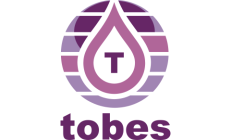
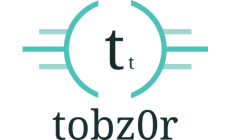
v0.1

diff --git a/Website-dockerfiles/toby-site/website-code/css/main.css b/Website-dockerfiles/toby-site/website-code/css/main.css
@@ -1,3 +1,26 @@
-body {
-    background-color: white;
+#fry {
+    opacity: 0.1;
+}
+
+a {
+    color: #32a89e;
+}
+
+a:hover {
+    text-decoration: none;
+    color:#327fa8;
+}
+
+#novideo {
+    display: none;
+}
+
+@media screen and (max-width:800px){
+    #videos {
+        display: none;
+    }
+
+    #novideo {
+        display: block;
+    }
 }

diff --git a/Website-dockerfiles/toby-site/website-code/inc/nav.php b/Website-dockerfiles/toby-site/website-code/inc/nav.php
@@ -1,26 +1,22 @@
-<nav class="navbar navbar-expand-lg navbar-dark" style="background-color: #2F2143;">
-  <a class="navbar-brand" href="/">
-    <!-- Page logo and name -->
-    <img src="/img/tobes.png" width="100" height="100" alt="tobes logo"> tobes
-  </a>
-  <button class="navbar-toggler" type="button" data-toggle="collapse" data-target="#navbarNav" aria-controls="navbarNav" aria-expanded="false" aria-label="Toggle navigation">
-    <span class="navbar-toggler-icon"></span>
-  </button>
-  <div class="collapse navbar-collapse" id="navbarNav">
-    <ul class="navbar-nav">
-    <li class="nav-item">
-        <a class="nav-link" href="/">home <span class="sr-only">(current)</span></a>
-      </li>
-      <li class="nav-item dropdown">
-        <a class="nav-link dropdown-toggle" href="#" id="navbarDropdown" role="button" data-toggle="dropdown" aria-haspopup="true" aria-expanded="false">
-          menu
-        </a>
-        <div class="dropdown-menu" aria-labelledby="navbarDropdown">
-          <a class="dropdown-item" href="../pgs/guitar.php">Guitar</a>
-          <div class="dropdown-divider"></div>
-          <a class="dropdown-item" href="../pgs/about.php">About</a>
-        </div>
-      </li>
-    </ul>
-  </div>
-</nav>
+
+<div class="container">
+  <nav class="navbar navbar-expand-lg navbar-light bg-light">
+    <a class="navbar-brand" href="/"><img src="/img/tobes.png" height="100" alt="tobes logo"></a>
+    <button class="navbar-toggler" type="button" data-toggle="collapse" data-target="#navbarNav" aria-controls="navbarNav" aria-expanded="false" aria-label="Toggle navigation">
+      <span class="navbar-toggler-icon"></span>
+    </button>
+    <div class="collapse navbar-collapse" id="navbarNav">
+      <ul class="navbar-nav">
+        <li class="nav-item">
+          <a class="nav-link" href="../pgs/about.php">about</a>
+        </li>
+        <li class="nav-item">
+          <a class="nav-link" href="../pgs/guitar.php">guitar</a>
+        </li>
+        <li class="nav-item">
+          <a class="nav-link" href="../pgs/sillies.php">sillies</a>
+        </li>
+      </ul>
+    </div>
+  </nav>
+</div>

diff --git a/Website-dockerfiles/toby-site/website-code/inc/footer.php b/Website-dockerfiles/toby-site/website-code/inc/footer.php
@@ -1,10 +1,17 @@
-    <script src="https://maxcdn.bootstrapcdn.com/bootstrap/4.0.0-beta/js/bootstrap.min.js" integrity="sha384-h0AbiXch4ZDo7tp9hKZ4TsHbi047NrKGLO3SEJAg45jXxnGIfYzk4Si90RDIqNm1" crossorigin="anonymous"></script>
-    <script src="https://code.jquery.com/jquery-3.2.1.slim.min.js" integrity="sha384-KJ3o2DKtIkvYIK3UENzmM7KCkRr/rE9/Qpg6aAZGJwFDMVNA/GpGFF93hXpG5KkN" crossorigin="anonymous"></script>
-    <script src="https://cdnjs.cloudflare.com/ajax/libs/popper.js/1.11.0/umd/popper.min.js" integrity="sha384-b/U6ypiBEHpOf/4+1nzFpr53nxSS+GLCkfwBdFNTxtclqqenISfwAzpKaMNFNmj4" crossorigin="anonymous"></script>
-        
-    <div class="panel panel-default">
-        <div class="panel-body">
-            &copy; Toby Sykes 2020
+<script src="https://code.jquery.com/jquery-3.5.1.slim.min.js" integrity="sha384-DfXdz2htPH0lsSSs5nCTpuj/zy4C+OGpamoFVy38MVBnE+IbbVYUew+OrCXaRkfj" crossorigin="anonymous"></script>
+<script src="https://cdn.jsdelivr.net/npm/popper.js@1.16.0/dist/umd/popper.min.js" integrity="sha384-Q6E9RHvbIyZFJoft+2mJbHaEWldlvI9IOYy5n3zV9zzTtmI3UksdQRVvoxMfooAo" crossorigin="anonymous"></script>
+<script src="https://stackpath.bootstrapcdn.com/bootstrap/4.5.0/js/bootstrap.min.js" integrity="sha384-OgVRvuATP1z7JjHLkuOU7Xw704+h835Lr+6QL9UvYjZE3Ipu6Tp75j7Bh/kR0JKI" crossorigin="anonymous"></script>
+
+    <div class="card text-center">
+        <div class="card-body">
+            <p class="card-text">
+            <a href="https://www.instagram.com/tobz0r_gtr" target="_blank" rel="noopener">insta</a> | 
+            <a href="https://www.linkedin.com/in/tersykes/" target="_blank" rel="noopener">linkedin</a> | 
+            <a href="https://www.youtube.com/channel/UCbykr6kdHWCE8jLjUqrw0Jw" target="_blank" rel="noopener">youtube</a>
+            </p>
+        </div>
+        <div class="card-footer text-muted">
+            &copy; toby sykes 2020
         </div>
     </div>
 </html>

diff --git a/Website-dockerfiles/toby-site/website-code/index.php b/Website-dockerfiles/toby-site/website-code/index.php
@@ -2,14 +2,27 @@
 <?php include "inc/nav.php"; ?>
 
 <body>
-    <div class="panel panel-default">
-        <div class="panel-heading">
-            <h3 class="panel-title">welcome traveller</h3>
+    <div class="container">
+        <div id="carouselExampleControls" class="carousel slide" data-ride="carousel">
+            <ol class="carousel-indicators">
+                <li data-target="#carouselExampleCaptions" data-slide-to="0" class="active"></li>
+                <li data-target="#carouselExampleCaptions" data-slide-to="1"></li>
+            </ol>
+            <div class="carousel-inner">
+                <div class="carousel-item active">
+                <img src="/img/fry.jpg" id="fry" class="d-block w-100" data-interval="1000" alt="fry">
+                    <div class="carousel-caption d-none d-md-block">
+                        <h5 class="text-dark">not sure what the purpose of this is</h5>
+                    </div>
+                </div>
+                <div class="carousel-item">
+                <img src="/img/fry_copy.jpg" id="fry" class="d-block w-100" data-interval="1000" alt="fry?">
+                    <div class="carousel-caption d-none d-md-block">
+                        <h5 class="text-dark">maybe if I look this way</h5>
+                    </div>
+                </div>
+            </div>
         </div>
-        <div class="panel-body">
-            here you will find content
-        </div>
-    </div>
 </body>
 
 <?php include "inc/footer.php"; ?>

diff --git a/Website-dockerfiles/toby-site/website-code/pgs/guitar.php b/Website-dockerfiles/toby-site/website-code/pgs/guitar.php
@@ -1,6 +1,33 @@
-<?php include "inc/header.php"; ?>
-<?php include "inc/nav.php"; ?>
+<?php include "../inc/header.php"; ?>
+<?php include "../inc/nav.php"; ?>
 
-guitar go here
+<div class="container" id="videos">
+    <div class="container">
+      <div class="card">
+        <div class="card-body">
+        <iframe width="560" height="315" src="https://www.youtube.com/embed/s8C9ybkRVTI" frameborder="0" allow="accelerometer; autoplay; encrypted-media; gyroscope; picture-in-picture" allowfullscreen></iframe>
+        </div>
+      </div>
+    </div>
 
-<?php include "inc/footer.php"; ?>
+    <div class="container">
+      <div class="card">
+        <div class="card-body">
+        <iframe width="560" height="315" src="https://www.youtube.com/embed/1RhYRM4zW4k" frameborder="0" allow="accelerometer; autoplay; encrypted-media; gyroscope; picture-in-picture" allowfullscreen></iframe>
+        </div>
+      </div>
+    </div>
+</div>
+
+<div class="container" id="novideo">
+  <div class="container">
+    <div class="card">
+      <div class="card-body">
+        <h1>:(</h1>
+        there should be some sweet videos of guitar playthroughs here, but your screen might not be wide enough - consider fixing that, or just visit my channel using the link below.
+      </div>
+    </div>
+  </div>
+</div>
+
+<?php include "../inc/footer.php"; ?>

diff --git a/Website-dockerfiles/toby-site/website-code/pgs/sillies.php b/Website-dockerfiles/toby-site/website-code/pgs/sillies.php
@@ -1,0 +1,34 @@
+<?php include "../inc/header.php"; ?>
+<?php include "../inc/nav.php"; ?>
+
+<div class="container" id="videos">
+    <div class="container">
+      <div class="card">
+        <div class="card-body">
+          <iframe width="560" height="315" src="https://www.youtube.com/embed/tkIpQPGs0fA" frameborder="0" allow="accelerometer; autoplay; encrypted-media; gyroscope; picture-in-picture" allowfullscreen></iframe>
+        </div>
+      </div>
+    </div>
+
+    <div class="container">
+      <div class="card">
+        <div class="card-body">
+          <iframe width="560" height="315" src="https://www.youtube.com/embed/oDDrmO21A-c" frameborder="0" allow="accelerometer; autoplay; encrypted-media; gyroscope; picture-in-picture" allowfullscreen></iframe>
+        </div>
+      </div>
+    </div>
+</div>
+
+<div class="container" id="novideo">
+  <div class="container">
+    <div class="card">
+      <div class="card-body">
+        <h1>:(</h1>
+        there should be some silly videos of DIY and stuff here, but your screen might not be wide enough - consider fixing that, or just visit my channel using the link below.
+      </div>
+    </div>
+  </div>
+</div>
+
+
+<?php include "../inc/footer.php"; ?>

diff --git a/Website-dockerfiles/toby-site/website-code/inc/header.php b/Website-dockerfiles/toby-site/website-code/inc/header.php
@@ -2,8 +2,9 @@
 <html lang="en">
 <head>
     <meta charset="UTF-8">
-    <link href="https://stackpath.bootstrapcdn.com/bootstrap/4.3.1/css/bootstrap.min.css" rel="stylesheet" integrity="sha384-ggOyR0iXCbMQv3Xipma34MD+dH/1fQ784/j6cY/iJTQUOhcWr7x9JvoRxT2MZw1T" crossorigin="anonymous">
+    <meta name="tobz0r's page">
+    <link rel="stylesheet" href="https://stackpath.bootstrapcdn.com/bootstrap/4.5.0/css/bootstrap.min.css" integrity="sha384-9aIt2nRpC12Uk9gS9baDl411NQApFmC26EwAOH8WgZl5MYYxFfc+NcPb1dKGj7Sk" crossorigin="anonymous">
     <link href="/css/main.css" rel="stylesheet">
     <meta name="viewport" content="width=device-width, initial-scale=1.0">
-    <title>Toby's Site</title>
+    <title>tobz0r</title>
 </head>

diff --git a/Website-dockerfiles/toby-site/website-code/pgs/about.php b/Website-dockerfiles/toby-site/website-code/pgs/about.php
@@ -1,6 +1,12 @@
-<?php include "inc/header.php"; ?>
-<?php include "inc/nav.php"; ?>
+<?php include "../inc/header.php"; ?>
+<?php include "../inc/nav.php"; ?>
 
-about go here
+<div class="container">
+  <div class="card">
+    <div class="card-body">
+      about text
+    </div>
+  </div>
+</div>
 
-<?php include "inc/footer.php"; ?>
+<?php include "../inc/footer.php"; ?>
